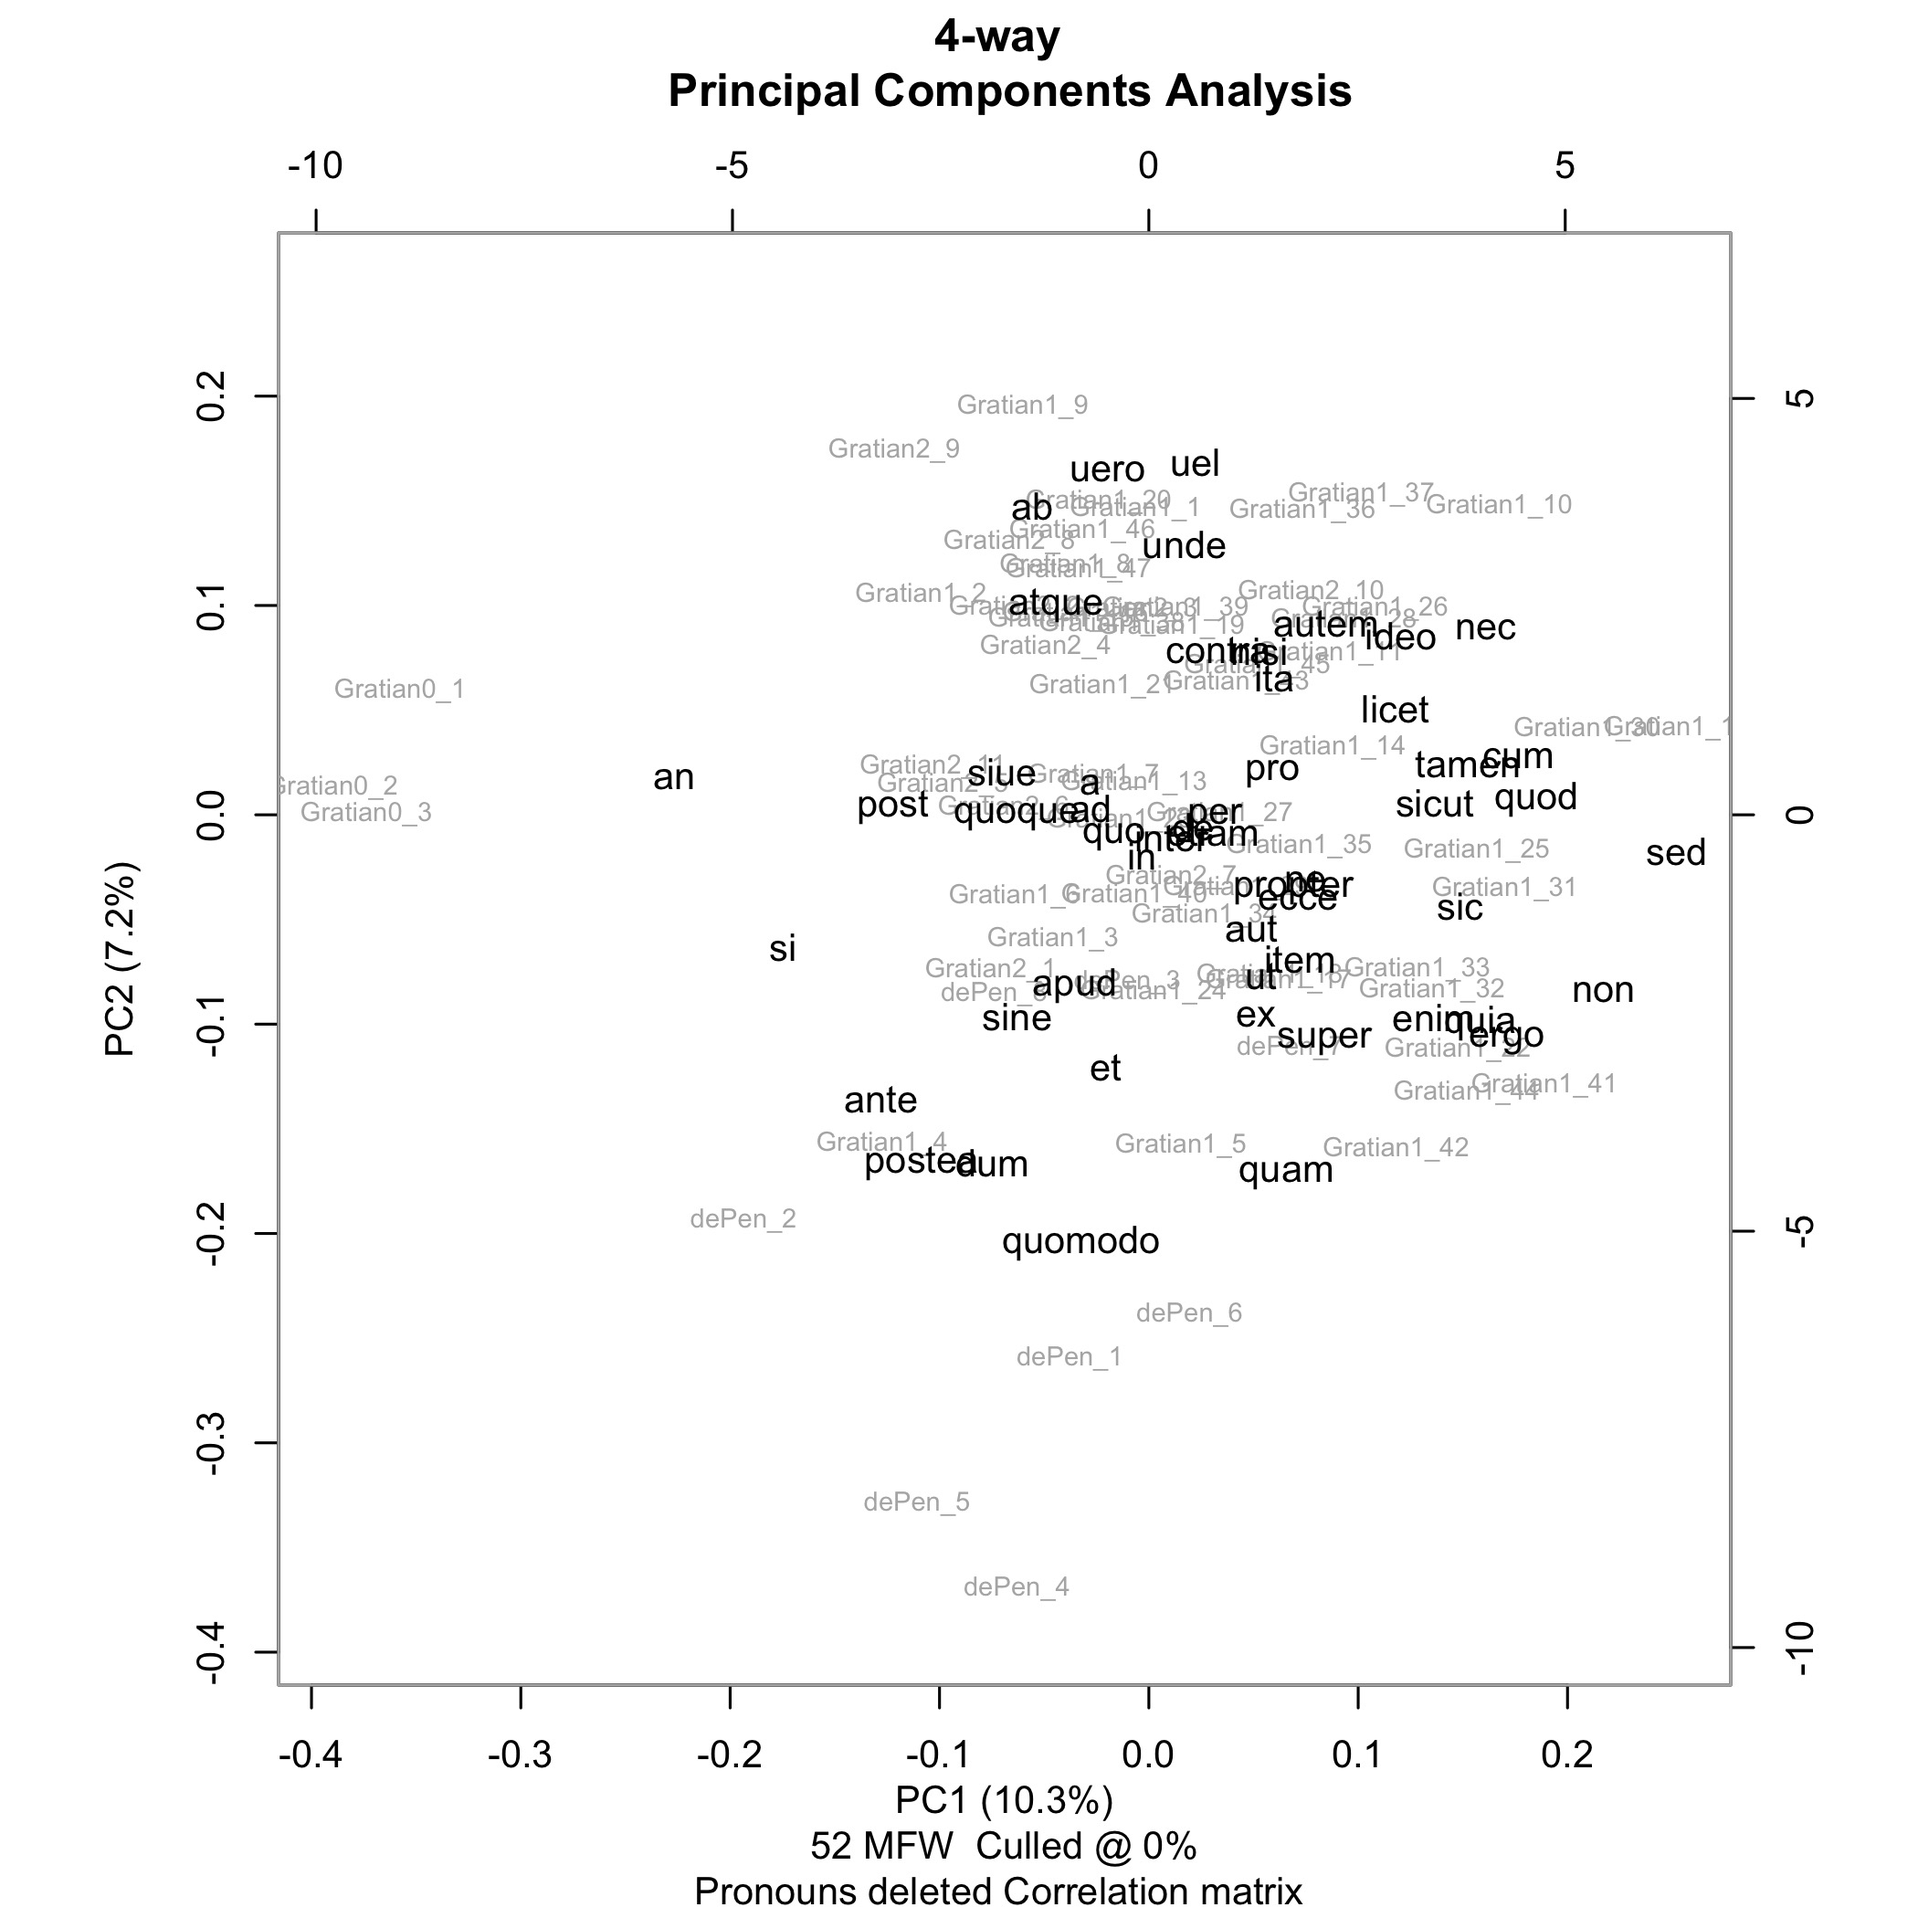
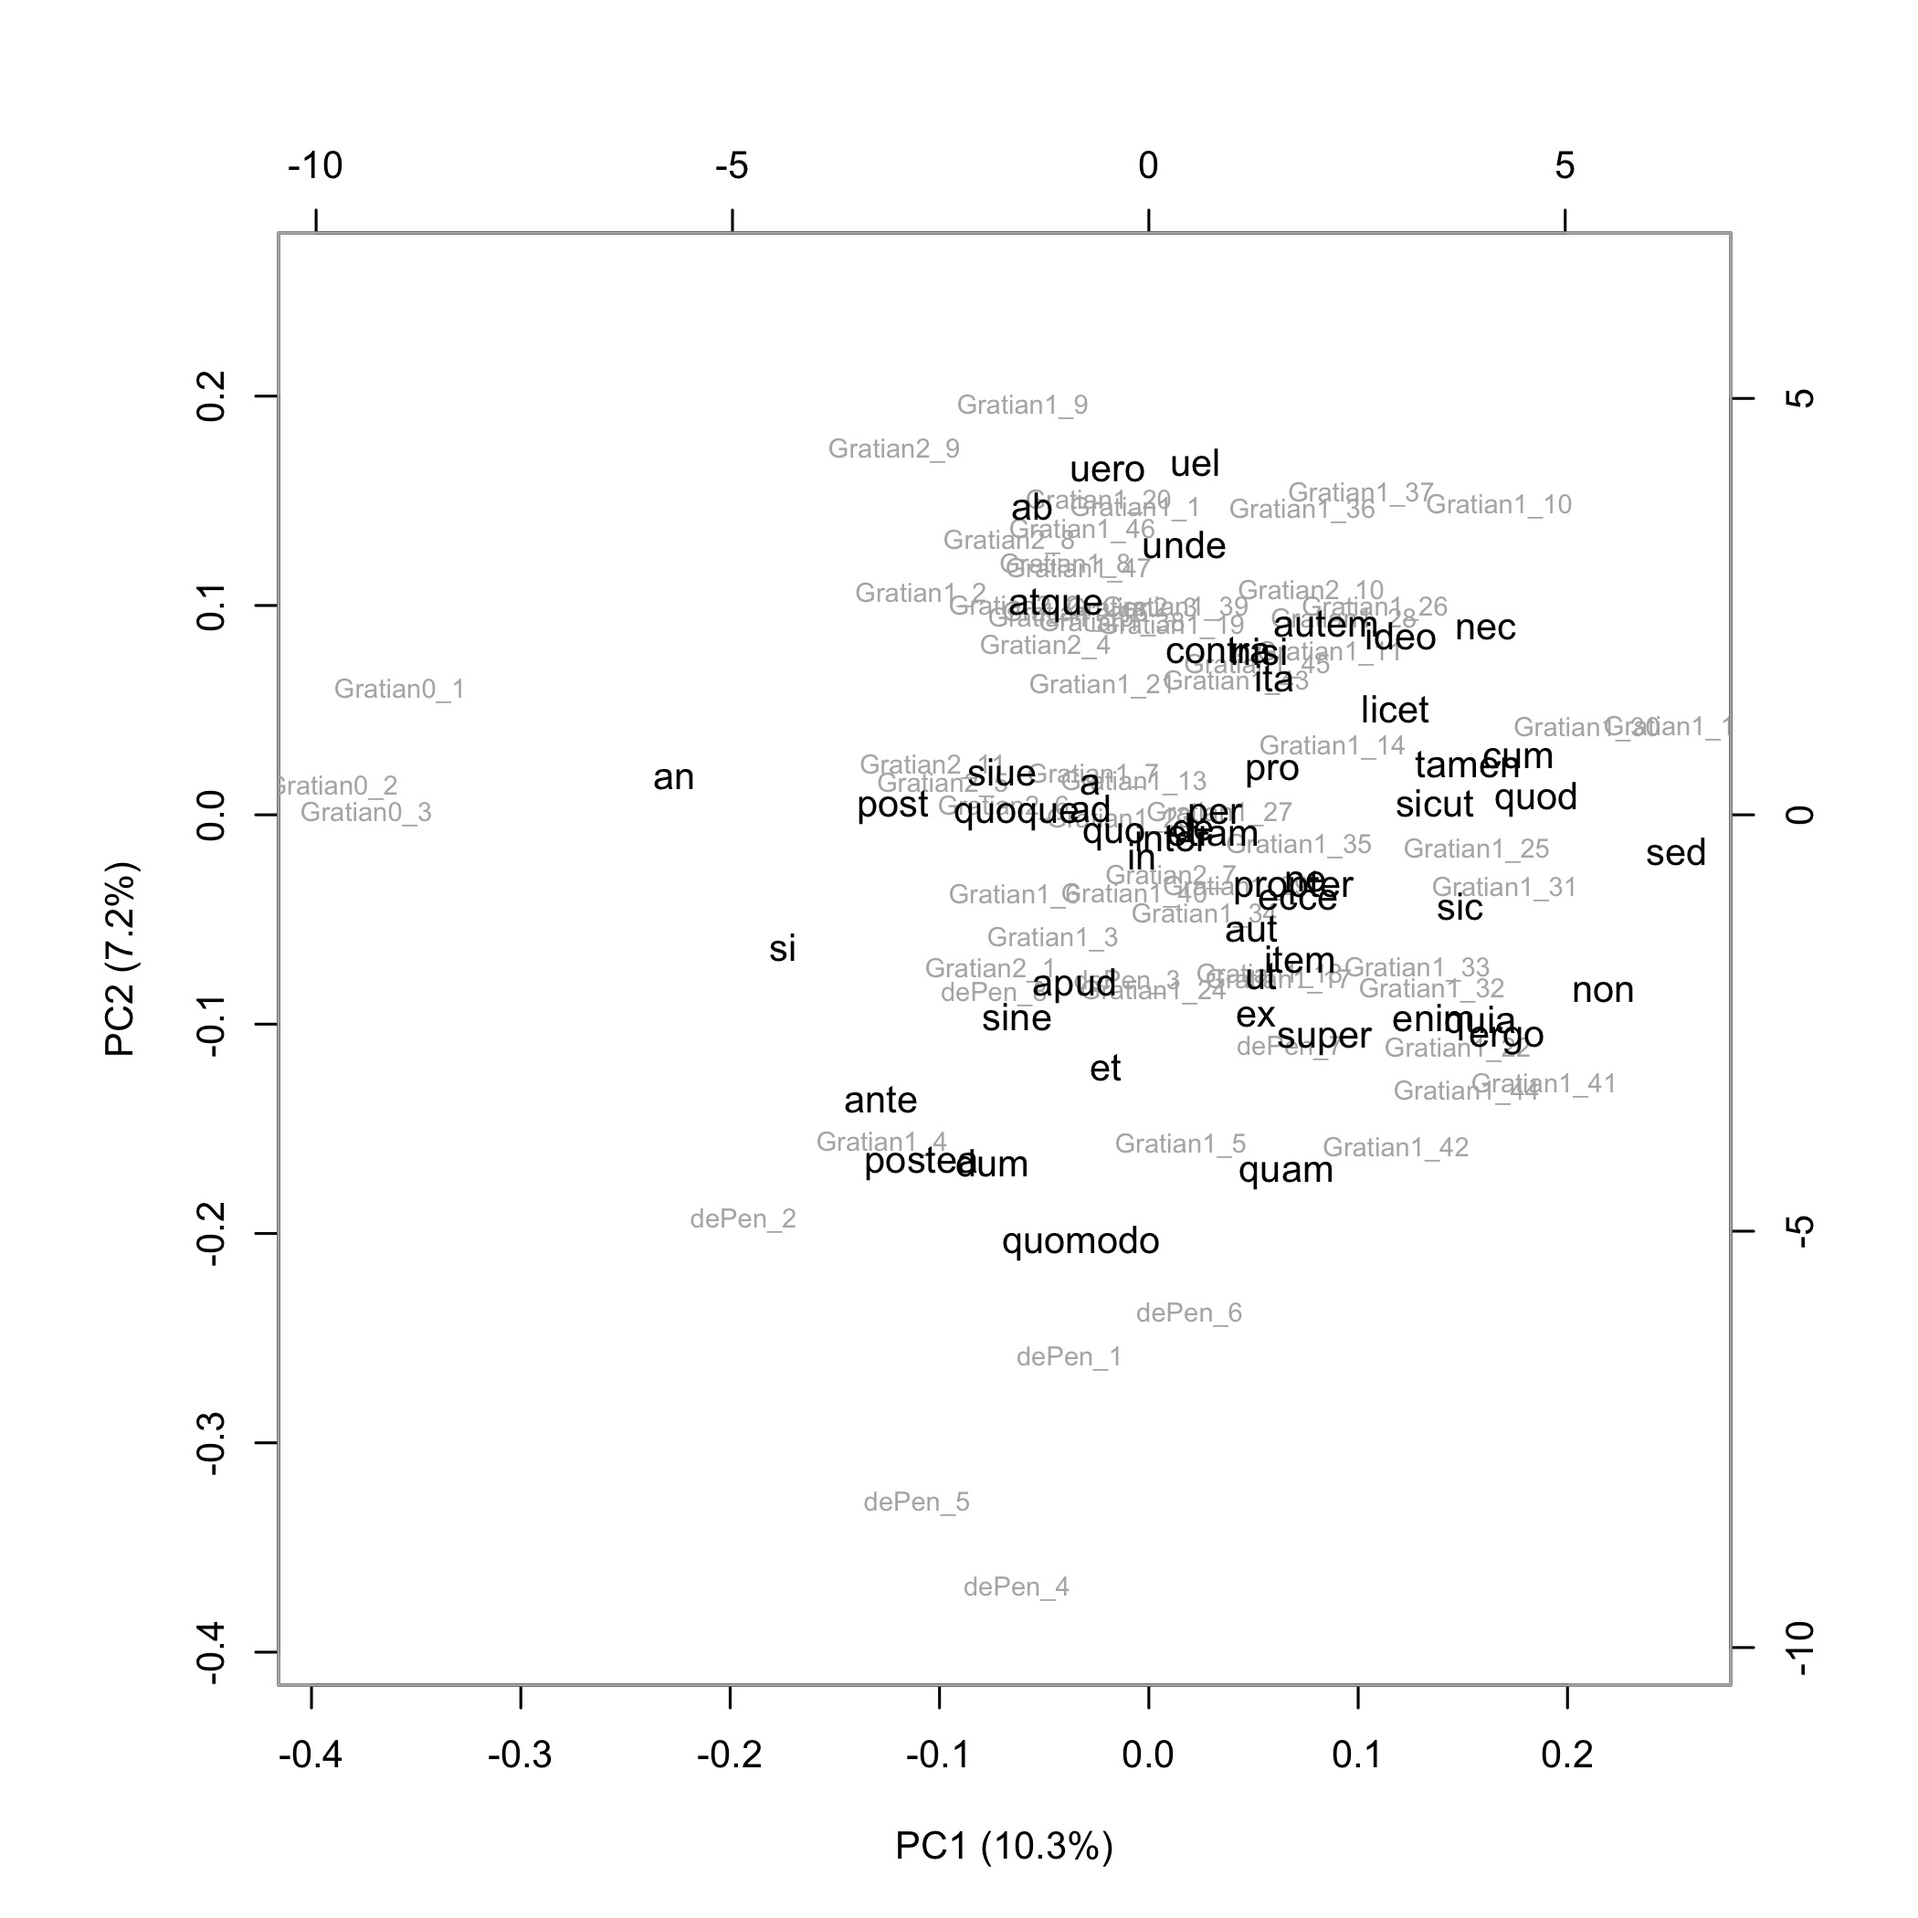
Update Figure 2
Turn off titles on graphs to match Figure 1.

Changed region(s): [[0.3714, 0.9286, 0.681, 1.0], [0.3405, 0.0, 0.7119, 0.0619]]

diff --git a/Chapter4/pca.md b/Chapter4/pca.md
@@ -2,7 +2,7 @@
 author: Paul Evans
 bibliography: ../bib/merged.bib
 csl: ../csl/chicago-fullnote-bibliography.csl
-date: 18 March 2021
+date: 22 March 2021
 reference-section-title: Bibliography
 suppress-bibliography: false
 title: Chapter 4
@@ -107,7 +107,7 @@ end of the PC2 axis, while *quomodo* is located toward the lower
 statements (*themata*), while *quomodo* is closely associated with
 the first- and second-recesion *dicta* from *de Penitentia*.
 
-![Figure 2 updated 28 May 2020](JPGs/4-way_PCA_52_MFWs_Loadings_001.jpg)
+![Figure 2 updated 22 Mar 2020](JPGs/4-way_PCA_52_MFWs_Loadings_001.jpg)
 
 In the initial function word counting experiment, *non*, the second
 most common word in the samples, was strongly associated with the
